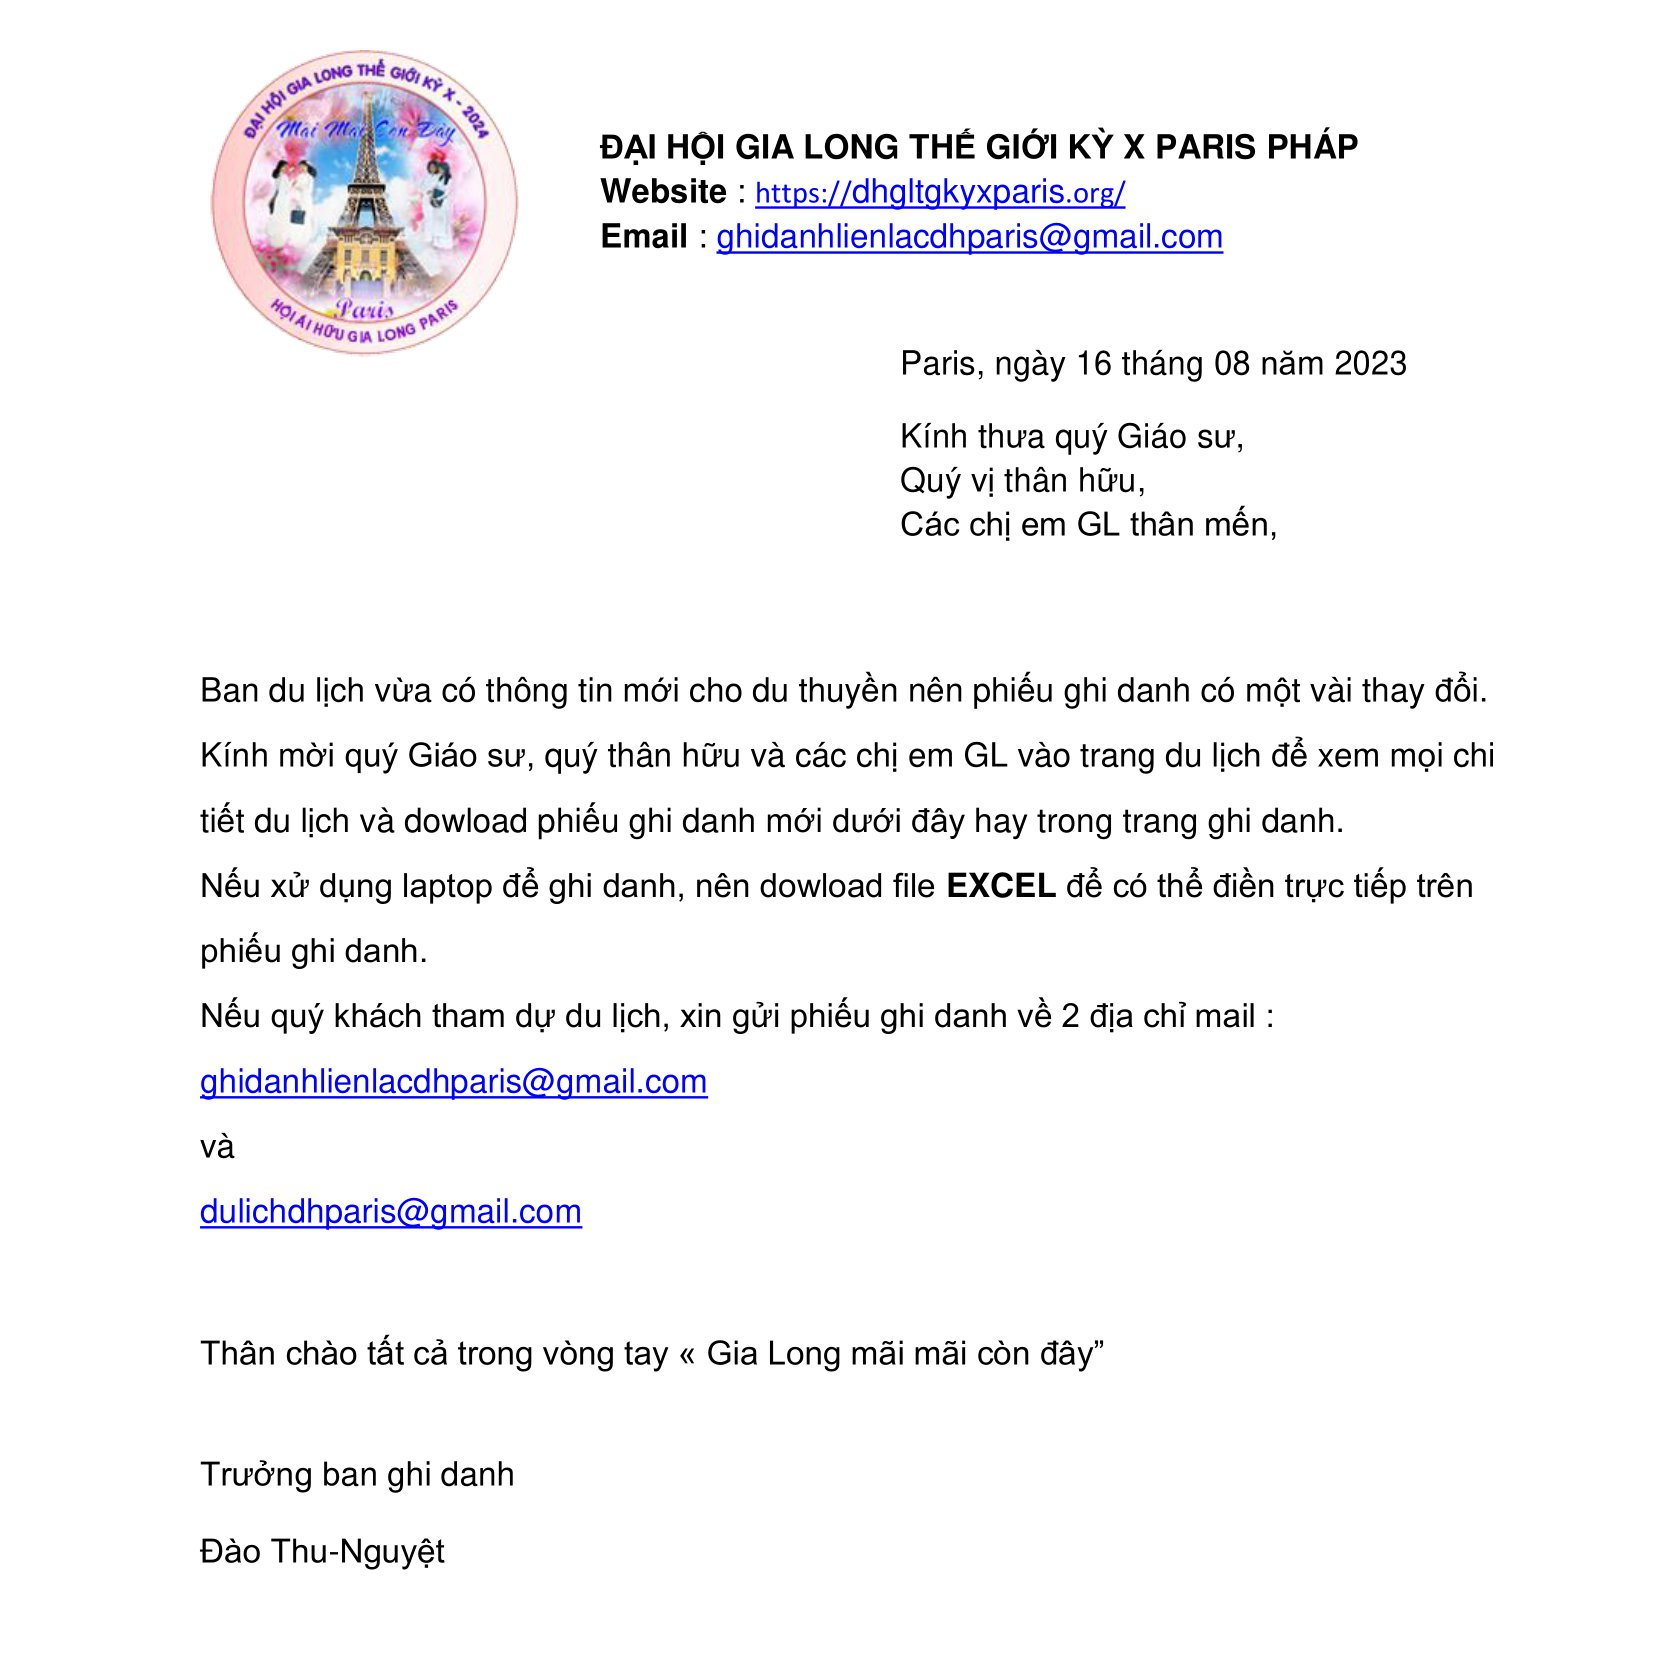
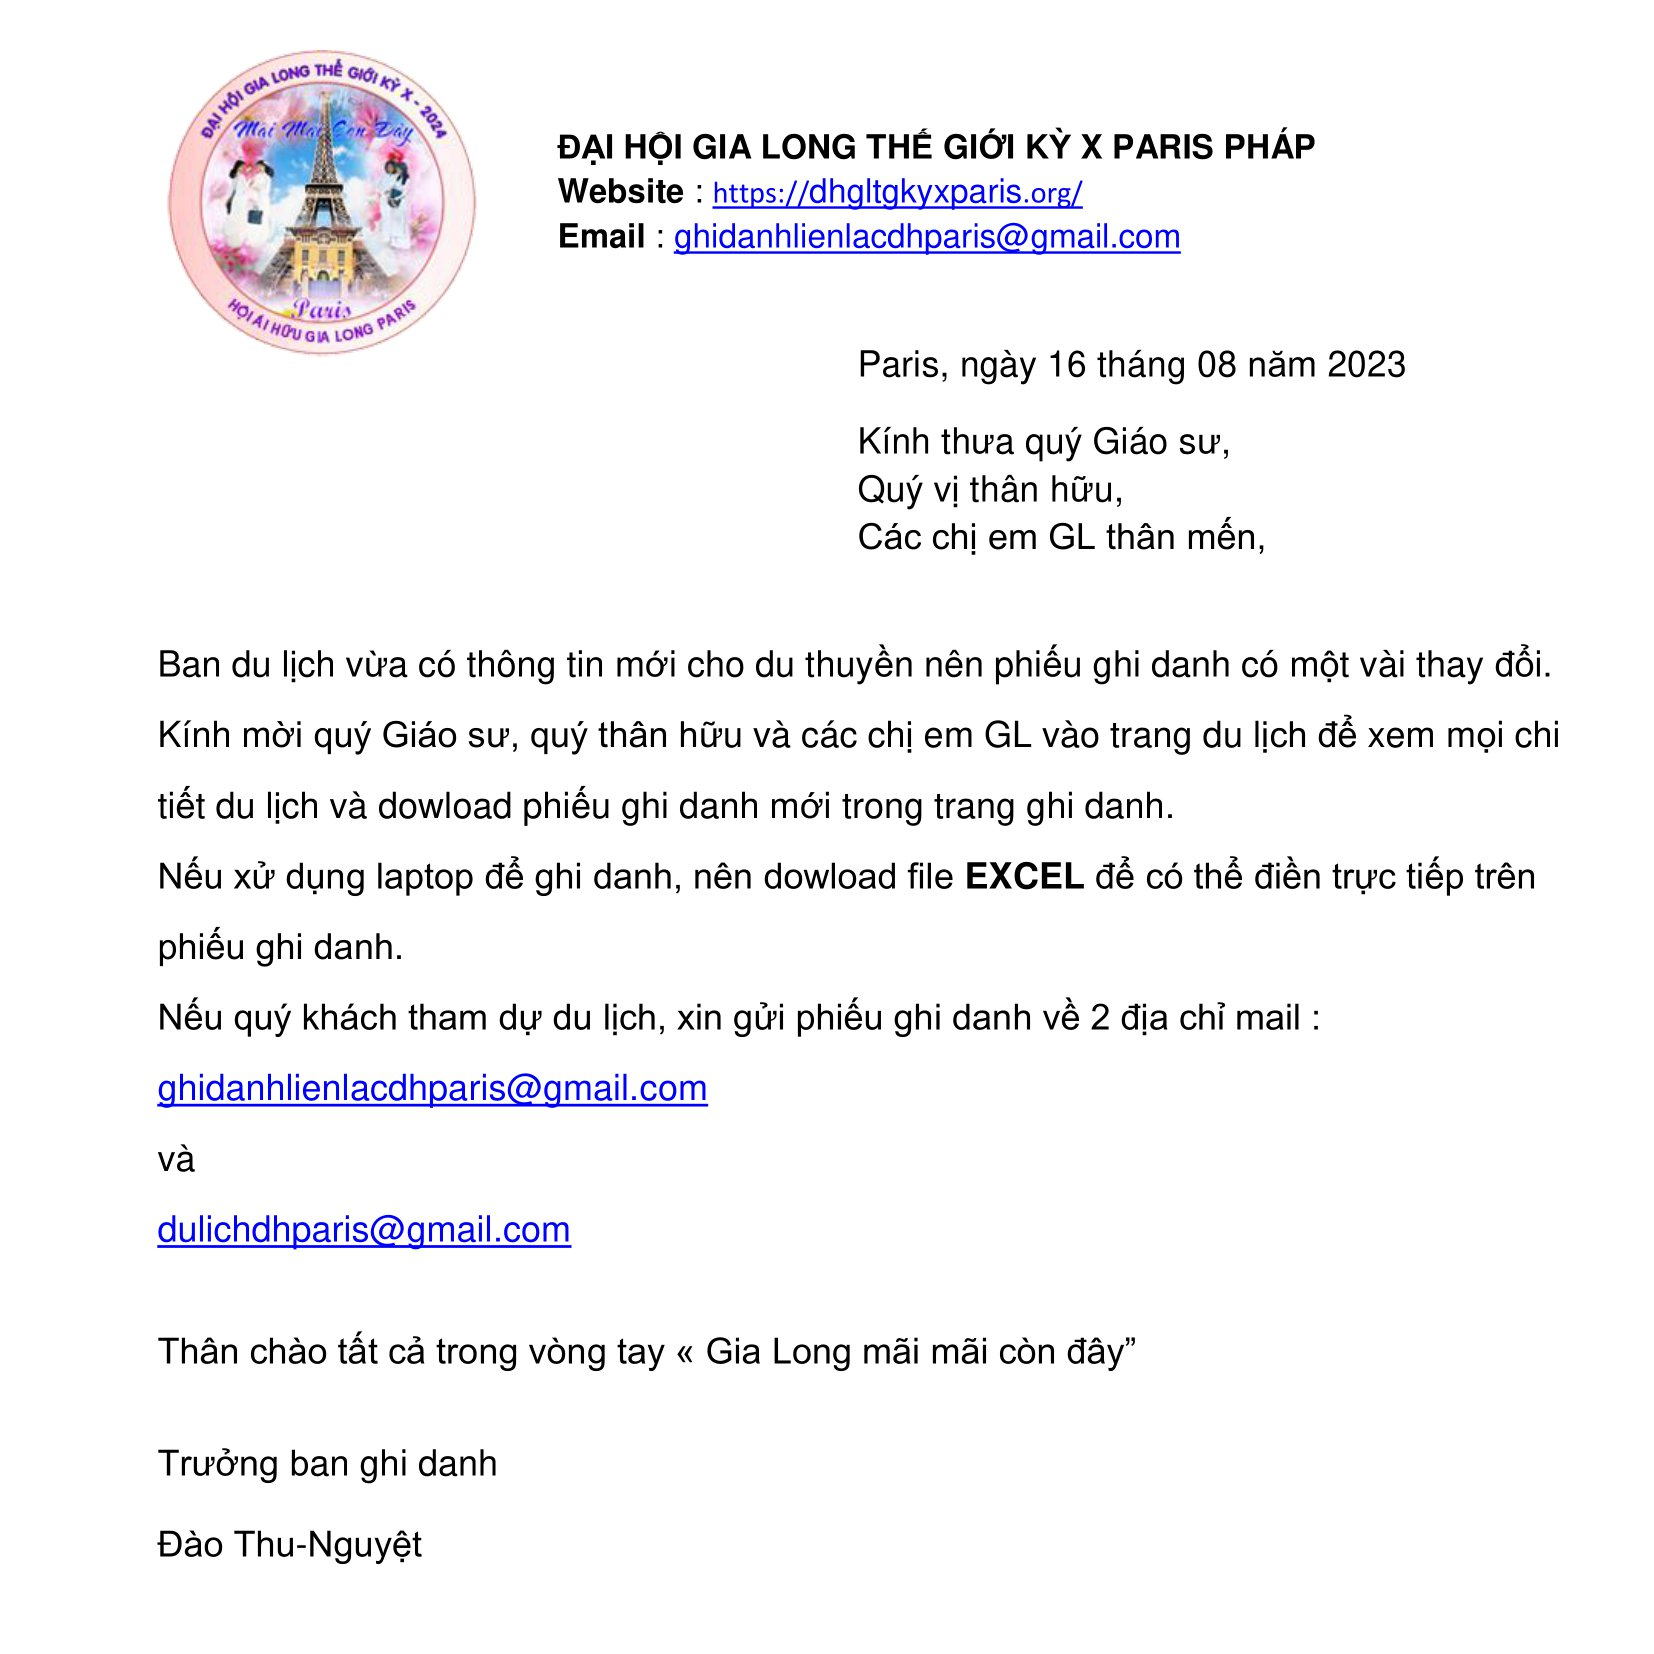
19-08-23
19-08-23

diff --git a/GhiDanh/ThuNgoGhiDanh.html b/GhiDanh/ThuNgoGhiDanh.html
@@ -144,7 +144,30 @@
     <div class="container">
       <div class="jumbotron">
         <div class="jumbotron1">
-            <img src="../GhiDanh/ThuGhiDanh_08-2023.jpg" alt="" class="btn-primary" width="98%">
+            <br><br>
+
+  				  <p class="paragraphe" align="center"><img src="../images/Logo_dhgltg2024.png" align="left" width="20%"> </p>
+    				<p class="paragraphe2" style="margin:0 0 0 33%;"><b>ĐẠI HỘI GIA LONG THẾ GIỚI KỲ X PARIS PHÁP<br>
+            Website : <FONT color=blue><u>https://dhgltgkyxparis.org</u></font><br>
+    				Email   : <a href="mailto:ghidanhlienlacdhparis@gmail.com"><FONT color=blue><u>ghidanhlienlacdhparis@gmail.com</u></font></b></a></p><br>
+            <p class="paragraphe2" style="margin:0 0 0 60%;">Paris, ngày 16 tháng 08 năm 2023<br>
+                Kính thưa quý Giáo sư,<br>
+                Quý vị thân hữu,
+                Các chị em GL thân mến,</p>
+            <br>
+            <p class="paragraphe2">Ban du lịch vừa có thông tin mới cho du thuyền nên phiếu ghi danh có một vài thay đổi.</p>
+            <p class="paragraphe2">Kính mời quý Giáo sư, quý thân hữu và các chị em GL vào trang du lịch để xem mọi chi tiết du lịch và dowload phiếu ghi danh mới dưới đây hay trong trang ghi danh.</p>
+            <p class="paragraphe2">Nếu xử dụng laptop để ghi danh, nên dowload file EXCEL để có thể điền trực tiếp trên phiếu ghi danh.</p>
+            <p class="paragraphe2">Nếu quý khách tham dự du lịch, xin gửi phiếu ghi danh về 2 địa chỉ mail :</p>
+
+            <p class="paragraphe2"><a href="mailto:ghidanhlienlacdhparis@gmail.com"><u>ghidanhlienlacdhparis@gmail.com</u></a></p>
+            <p class="paragraphe2">và</p>
+            <p class="paragraphe2"><a href="mailto:dulichdhparis@gmail.com"><u>dulichdhparis@gmail.com</u></a></p></p><br>
+            <p class="paragraphe2">Thân chào tất cả trong vòng tay « Gia Long mãi mãi còn đây”</p><br>
+            <p class="paragraphe2">Trưởng ban ghi danh</p>
+            <p class="paragraphe2">Đào Thu-Nguyệt</p>
+            <p class="paragraphe1" align="center">***</p>
+
             <p class="paragraphe1" align="center">Để tải xuống Phiếu Ghi Danh Excel dành cho GL hải ngoại và thân hữu , xin bấm vào hàng dưới đây:<br>
                 <a href="../GhiDanh/PhieuGhiDanh-GS-GL-TH.xlsx" target="_blank"><button type="button" class="btn btn-primary"><i class="fa fa-download"></i> <u>PHIẾU GHI DANH DÀNH CHO HẢI NGOẠI </u></button></a>
               <br>

diff --git a/index.html b/index.html
@@ -173,7 +173,7 @@
             </div>
           </div>
           <br>
-          <img src="images/ThongBao_08-2023.jpg" width="100%" id="imgtt">
+          <img src="GhiDanh/ThuGhiDanh_08-2023.jpg" width="100%" id="imgtt">
           <br><br>
           <img src="images/ThuNgoHT2023.jpg" width="100%">
           <br><br>
